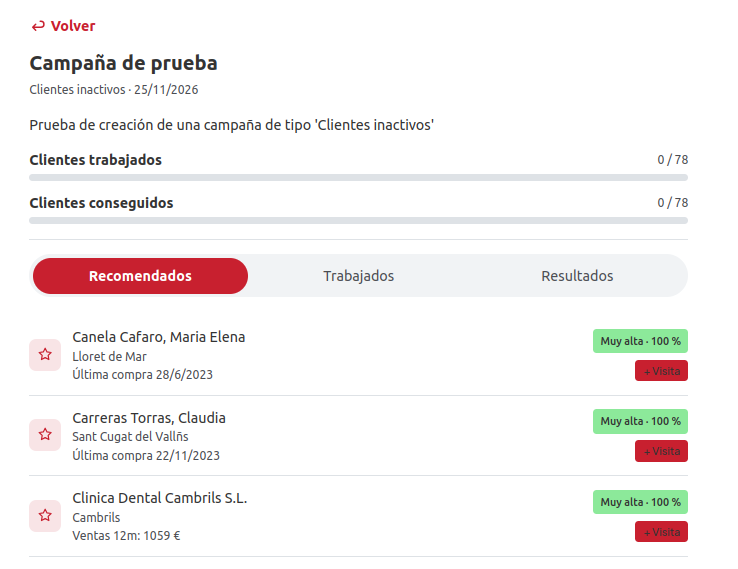
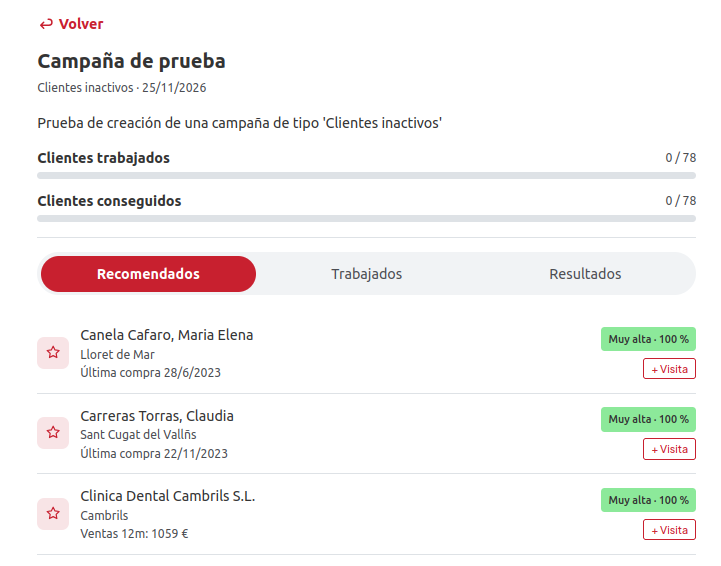
feat(san): Añadido manual para pantalla 'motivos de tarea'.

diff --git a/proyectos/san/area_facturacion/app_web/smart_sales/nueva_ui/motivos.md b/proyectos/san/area_facturacion/app_web/smart_sales/nueva_ui/motivos.md
@@ -1,0 +1,37 @@
+# Motivos de tarea
+
+---
+
+Los **motivos de tarea** son la lista de razones que el comercial puede elegir al programar una visita o tarea (campo **Motivo** de [Nueva visita o tarea](./nueva_tarea.md)), por ejemplo "Presentación de producto" o "Seguimiento de pedido". El motivo también forma parte del título automático de la tarea.
+
+La lista se mantiene desde el menú lateral, en **SmartSales > Motivos de tarea**. Solo pueden crear, cambiar o borrar motivos los usuarios del grupo de **administración**; los comerciales solo los ven al crear o editar tareas.
+
+<!-- ![Motivos de tarea](./img/motivos.png) -->
+<!-- CAPTURA motivos.png: /crm/motivo_tarea con un usuario de administración, la lista de motivos y el detalle de uno abierto. -->
+
+## Lista de motivos
+
+Muestra todos los motivos con su **Descripción** y si están **Activos**. Al pulsar uno se abre su detalle a la derecha.
+
+## Crear un motivo
+
+El botón **Nuevo motivo de tarea** abre una ventana con:
+
+| Campo           | Qué es                                                       |
+| --------------- | ------------------------------------------------------------ |
+| **Descripción** | El texto del motivo, tal como lo verán los comerciales.      |
+| **Activo**      | Si está marcado, el motivo aparece al crear o editar tareas. |
+
+**Guardar** lo crea; **Cancelar** cierra la ventana sin crearlo.
+
+## Cambiar un motivo
+
+En el detalle se pueden cambiar la **Descripción** y la casilla **Activo**. Al modificar algo aparecen los botones **Guardar** y **Cancelar**.
+
+## Dar de baja un motivo
+
+Para que un motivo deje de ofrecerse a los comerciales, se **desmarca Activo**: deja de aparecer al crear tareas, pero las tareas que ya lo tenían lo conservan. Al editar una de esas tareas, el motivo sigue apareciendo con su nombre y la indicación "(inactivo)", para no perderlo al guardar.
+
+El botón **Borrar** del detalle (con confirmación) elimina el motivo definitivamente, pero solo si **ninguna tarea lo usa** (por ejemplo, uno creado por error). Si alguna tarea lo usa, no se borra y aparece el aviso «No se puede borrar el motivo de tarea "Seguimiento de pedido": hay tareas que lo usan. Desactívalo en lugar de borrarlo.» (con la descripción del motivo); en ese caso hay que desmarcar **Activo**.
+
+[Volver al Índice](./index.md)

diff --git a/proyectos/san/area_facturacion/app_web/smart_sales/nueva_ui/nueva_tarea.md b/proyectos/san/area_facturacion/app_web/smart_sales/nueva_ui/nueva_tarea.md
@@ -23,7 +23,7 @@ Pantalla para programar una visita, llamada, email o WhatsApp con un cliente. Se
 | **Tipo de tarea** | Visita, Llamada, Email o Whatsapp. Por defecto, Visita. |
 | **Título** | Obligatorio, hasta 100 caracteres. Viene relleno automáticamente (ver [Título de la tarea](#título-de-la-tarea)) y se puede cambiar. |
 | **Fecha** y **Hora** | Obligatorias. Por defecto, hoy a la hora en punto actual. |
-| **Motivo** | Opcional. Lista de motivos que mantiene la administración (ver [Motivos de tarea](#motivos)). |
+| **Motivo** | Opcional. Lista de motivos **activos** que mantiene la administración (ver [Motivos de tarea](./motivos.md)). |
 | **Producto** | Opcional. Primero se elige el nivel (**Artículo**, **Familia** o **Subfamilia**) y después se busca por código o por descripción (sin necesidad de poner tildes). |
 | **Notas** | Opcional, hasta 1.000 caracteres. Se pueden **dictar** con el micrófono. |
 
@@ -58,9 +58,5 @@ En estas tareas no hay sugerencias de productos, porque se calculan por cliente.
 ## Guardar
 
 **Guardar** crea la tarea para el comercial conectado y abre la [Agenda](./agenda.md) (o vuelve al trato, si es un trato sin cliente). Si falta algún dato obligatorio, se indica debajo del formulario. **Cancelar** vuelve a la pantalla anterior sin guardar.
-
-## Motivos
-
-Los motivos de tarea se mantienen desde **SmartSales > Motivos de tarea** en el menú lateral. Solo los usuarios del grupo de administración pueden crearlos, cambiarlos o darlos de baja; en las tareas solo se ofrecen los motivos activos.
 
 [Volver al Índice](./index.md)

diff --git a/proyectos/san/area_facturacion/app_web/smart_sales/nueva_ui/tarea.md b/proyectos/san/area_facturacion/app_web/smart_sales/nueva_ui/tarea.md
@@ -26,7 +26,7 @@ Se ven el título y la nota de la tarea, y estos botones:
 
 <!-- CAPTURA tarea_editar.png: el formulario de edición de una tarea pendiente. -->
 
-Mientras la tarea está pendiente (y, si es una visita, no se ha iniciado), **Editar** permite cambiar el **título**, el **tipo**, la **fecha** y la **hora**, el **motivo**, el **producto** y la **nota**. Es la forma de, por ejemplo, pasar una visita a otro día.
+Mientras la tarea está pendiente (y, si es una visita, no se ha iniciado), **Editar** permite cambiar el **título**, el **tipo**, la **fecha** y la **hora**, el **motivo**, el **producto** y la **nota**. Es la forma de, por ejemplo, pasar una visita a otro día. Si el motivo de la tarea se ha desactivado después, sigue apareciendo con la indicación "(inactivo)" para no perderlo (ver [Motivos de tarea](./motivos.md#dar-de-baja-un-motivo)).
 
 **Guardar cambios** guarda la tarea (y actualiza el evento en Google Calendar si el comercial lo tiene sincronizado). **Cancelar**, o el botón **Volver** de arriba, descarta los cambios.
 

diff --git a/proyectos/san/area_facturacion/app_web/smart_sales/nueva_ui/index.md b/proyectos/san/area_facturacion/app_web/smart_sales/nueva_ui/index.md
@@ -16,6 +16,7 @@ La nueva versión de SmartSales es el espacio de trabajo del comercial: su día,
 - [Clientes y contactos](./clientes.md)
 - [Mapa de clientes y prospección](./mapa.md)
 - [Campañas](./campanias.md)
+- [Motivos de tarea](./motivos.md)
 - [Rendimiento](./rendimiento.md)
 - [Objetivo de nuevos clientes](./objetivos.md)
 
